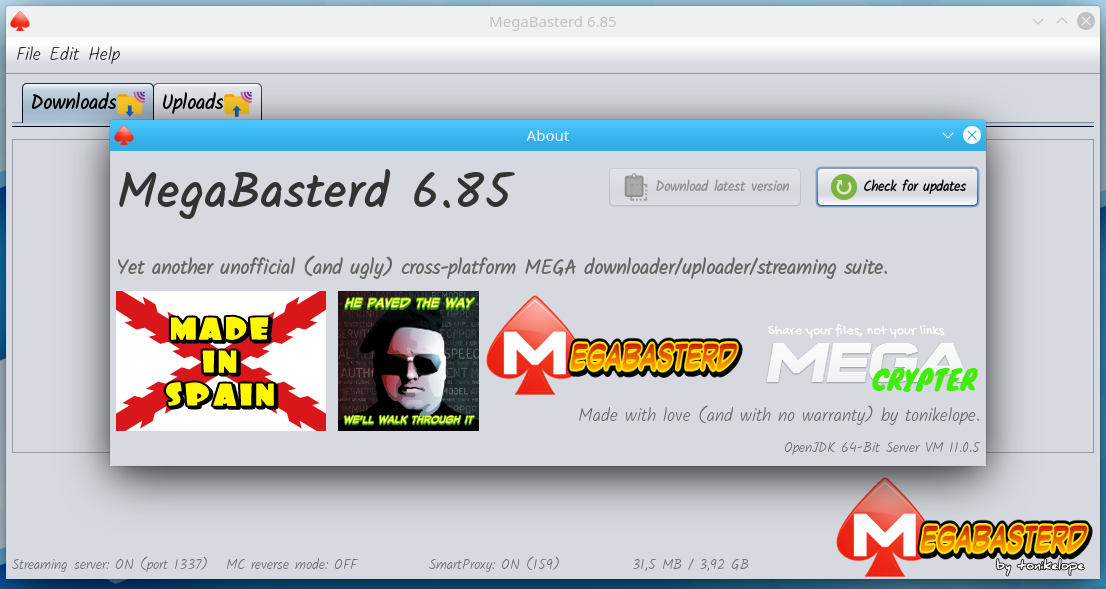
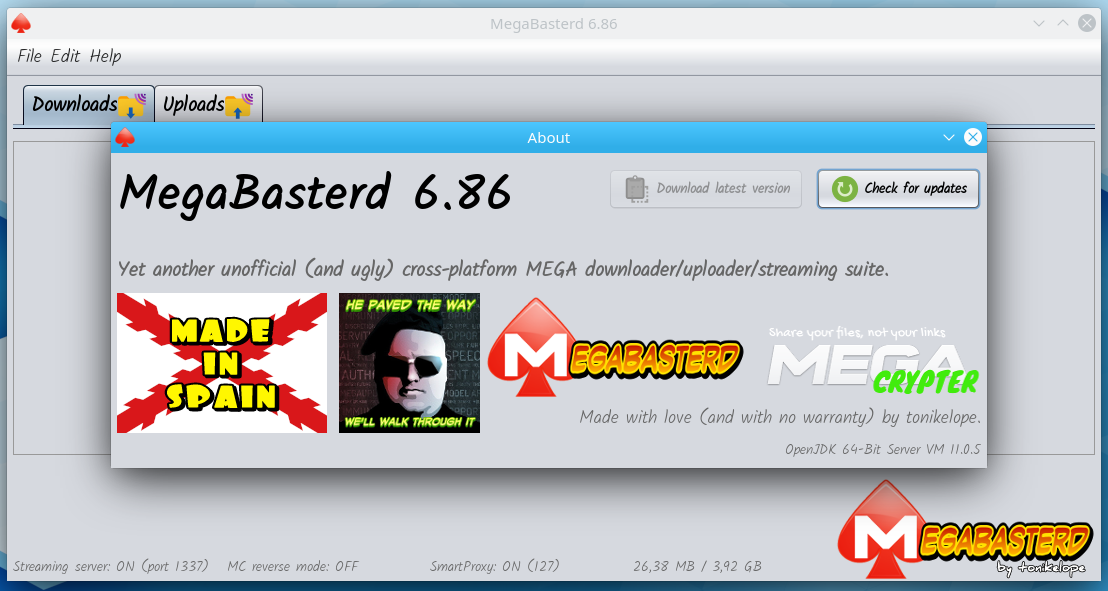
6.86
Fix TOP/BOTTOM BUTTONS

(cherry picked from commit 4eaa65b1489bac375f32223ad875feae0f8403de)
(cherry picked from commit 92eb315848bfd2becc9a9a3f0541410fdc15f2cd)

diff --git a/src/main/java/com/tonikelope/megabasterd/Download.java b/src/main/java/com/tonikelope/megabasterd/Download.java
@@ -667,9 +667,9 @@ public class Download implements Transference, Runnable, SecureSingleThreadNotif
                                     }
                                 }
 
-                            } while (!isExit() && progress < getFile_size() && (isPaused() || progress > last_progress));
+                            } while (!isExit() && !_thread_pool.isShutdown() && progress < getFile_size() && (isPaused() || progress > last_progress));
 
-                            if (!isExit() && _status_error == null && progress < getFile_size() && progress <= last_progress) {
+                            if (!isExit() && !_thread_pool.isShutdown() && _status_error == null && progress < getFile_size() && progress <= last_progress) {
                                 stopDownloader("PROGRESS WATCHDOG TIMEOUT!");
 
                                 if (MainPanel.getProxy_manager() != null) {

diff --git a/src/main/java/com/tonikelope/megabasterd/DownloadView.java b/src/main/java/com/tonikelope/megabasterd/DownloadView.java
@@ -122,7 +122,7 @@ public class DownloadView extends javax.swing.JPanel implements TransferenceView
 
         status_label.setText("");
 
-        for (JComponent c : new JComponent[]{queue_up_button, queue_down_button, slots_spinner, slots_label, pause_button, stop_button, speed_label, progress_pbar, keep_temp_checkbox, file_name_label, close_button, copy_link_button, restart_button, file_size_label, open_folder_button}) {
+        for (JComponent c : new JComponent[]{queue_top_button, queue_bottom_button, queue_up_button, queue_down_button, slots_spinner, slots_label, pause_button, stop_button, speed_label, progress_pbar, keep_temp_checkbox, file_name_label, close_button, copy_link_button, restart_button, file_size_label, open_folder_button}) {
 
             c.setVisible(false);
         }

diff --git a/src/main/java/com/tonikelope/megabasterd/LabelTranslatorSingleton.java b/src/main/java/com/tonikelope/megabasterd/LabelTranslatorSingleton.java
@@ -44,6 +44,8 @@ public class LabelTranslatorSingleton {
         _addTranslation("Split content in different uploads", "Separar contenido en diferentes subidas");
         _addTranslation("Merge content in the same upload", "Juntar todo en la misma subida");
         _addTranslation("How do you want to proceed?", "¿Qué quieres hacer?");
+        _addTranslation("TOP", "ENCIMA DE TODO");
+        _addTranslation("BOTTOM", "DEBAJO DE TODO");
         _addTranslation("Freeze transferences before start", "Congelar transferencias antes de empezar");
         _addTranslation("UNFREEZE WAITING TRANSFERENCES", "DESCONGELAR TRANSFERENCIAS A LA ESPERA");
         _addTranslation("(FROZEN) Waiting to start...", "(CONGELADA) Esperando para empezar...");

diff --git a/src/main/java/com/tonikelope/megabasterd/UploadView.java b/src/main/java/com/tonikelope/megabasterd/UploadView.java
@@ -120,7 +120,7 @@ public class UploadView extends javax.swing.JPanel implements TransferenceView {
 
         status_label.setText("");
 
-        for (JComponent c : new JComponent[]{cbc_label, slots_spinner, slots_label, pause_button, stop_button, speed_label, progress_pbar, file_name_label, close_button, restart_button, file_size_label}) {
+        for (JComponent c : new JComponent[]{queue_up_button, queue_down_button, queue_top_button, queue_bottom_button, cbc_label, slots_spinner, slots_label, pause_button, stop_button, speed_label, progress_pbar, file_name_label, close_button, restart_button, file_size_label}) {
 
             c.setVisible(false);
         }

diff --git a/src/main/java/com/tonikelope/megabasterd/Upload.java b/src/main/java/com/tonikelope/megabasterd/Upload.java
@@ -460,6 +460,8 @@ public class Upload implements Transference, Runnable, SecureSingleThreadNotifia
             getView().getClose_button().setVisible(true);
             getView().getQueue_down_button().setVisible(true);
             getView().getQueue_up_button().setVisible(true);
+            getView().getQueue_top_button().setVisible(true);
+            getView().getQueue_bottom_button().setVisible(true);
         });
 
     }

diff --git a/src/main/java/com/tonikelope/megabasterd/MainPanel.java b/src/main/java/com/tonikelope/megabasterd/MainPanel.java
@@ -53,7 +53,7 @@ import javax.swing.UIManager;
  */
 public final class MainPanel {
 
-    public static final String VERSION = "6.85";
+    public static final String VERSION = "6.86";
     public static final int THROTTLE_SLICE_SIZE = 16 * 1024;
     public static final int DEFAULT_BYTE_BUFFER_SIZE = 16 * 1024;
     public static final int STREAMER_PORT = 1337;
